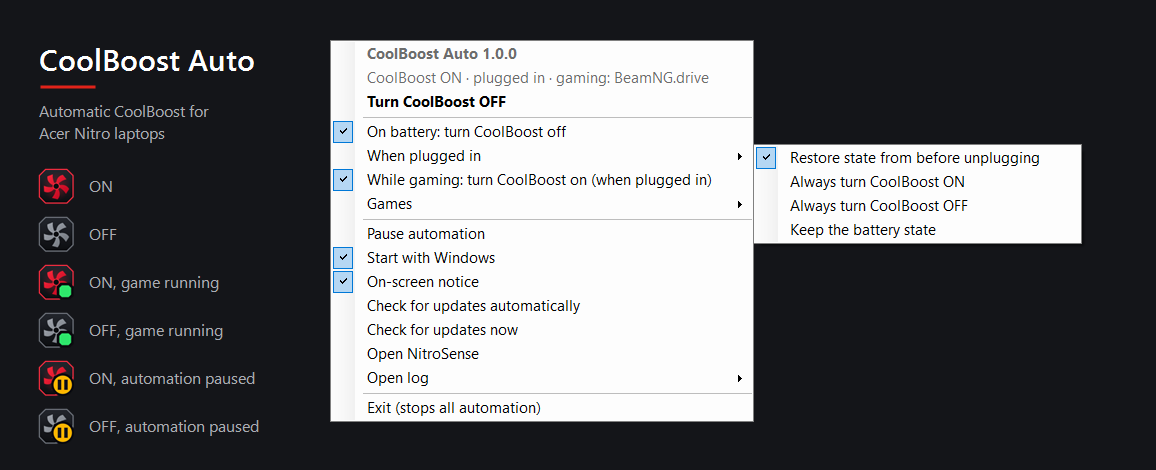
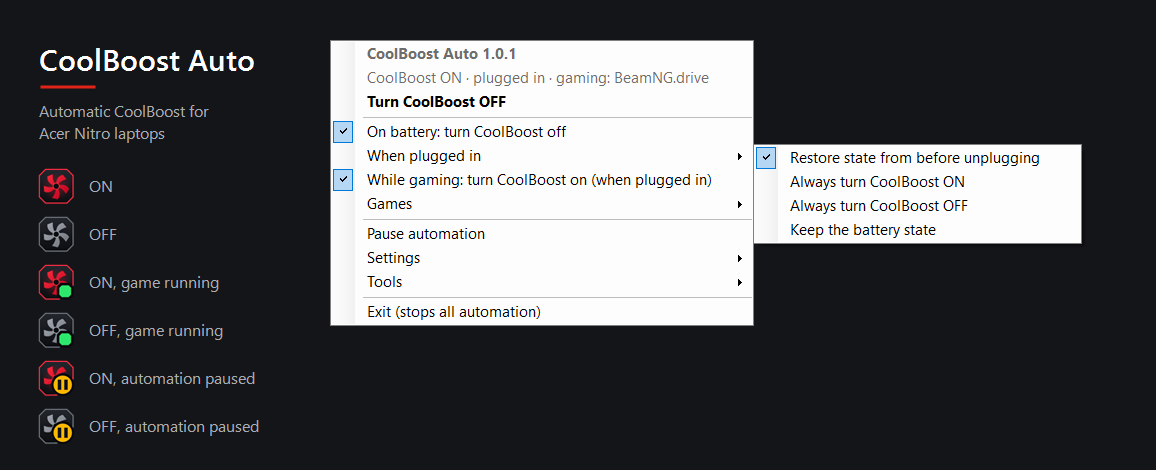
Tray menu: group the rarely used items into Settings and Tools submenus; docs and screenshot updated
Claude-Session: https://claude.ai/code/session_01VWvxtFW1m6xPJTzfAa1e5K

Changed region(s): [[0.2803, 0.5064, 0.654, 0.9234], [0.436, 0.0894, 0.4671, 0.1191]]

diff --git a/README.pt-BR.md b/README.pt-BR.md
@@ -9,7 +9,7 @@
 
 **[⬇ Baixar a versão mais recente](https://github.com/edgarmcarvalho/nitrosense-coolboost-auto/releases/latest)** · 🇺🇸 [Read in English](README.md)
 
-![CoolBoost Auto: estados do ícone da bandeja e menu](docs/screenshot.png?v=2)
+![CoolBoost Auto: estados do ícone da bandeja e menu](docs/screenshot.png?v=3)
 
 > Projeto sem vínculo com a Acer e não endossado por ela. *Acer, Nitro, NitroSense e CoolBoost são marcas registradas da Acer Inc.*
 
@@ -74,7 +74,7 @@ powershell -ExecutionPolicy Bypass -File .\install.ps1
 
 <img src="docs/notice.png" width="210" align="right" alt="Aviso: CoolBoost ON, gaming: BeamNG.drive">
 
-Sempre que o CoolBoost troca, um pequeno aviso aparece acima da barra de tarefas por uns 3 segundos e diz o motivo, em inglês (*unplugged*, *gaming: (o jogo)*, *game closed*…). Ele nunca rouba o foco; para desligar, use **On-screen notice** no menu.
+Sempre que o CoolBoost troca, um pequeno aviso aparece acima da barra de tarefas por uns 3 segundos e diz o motivo, em inglês (*unplugged*, *gaming: (o jogo)*, *game closed*…). Ele nunca rouba o foco; para desligar, use **Settings ▸ On-screen notice**.
 
 <details><summary><b>Tudo o que tem no menu</b> (o menu é em inglês)</summary>
 
@@ -84,9 +84,8 @@ Sempre que o CoolBoost troca, um pequeno aviso aparece acima da barra de tarefas
 - **While gaming: turn CoolBoost on (when plugged in)**: a regra dos jogos.
 - **Games** ▸ os jogos detectados agora, **Add a running app** (tratar um app aberto como jogo), **Ignore a game** (ignorar algo detectado por engano) e **Ignored apps** (clique em um para voltar a considerá-lo).
 - **Pause automation**: nada muda sozinho até você desmarcar. O clique no ícone continua funcionando.
-- **Start with Windows** (iniciar com o Windows) · **On-screen notice** (aviso na tela).
-- **Check for updates automatically** (desligado por padrão) · **Check for updates now**: pergunta ao GitHub o número da versão mais recente e avisa se houver uma nova. Nada é baixado nem instalado a menos que você clique na atualização; aí abre uma janela que executa o mesmo instalador em PowerShell mostrado acima, fica aberta e espera você apertar Enter.
-- **Open NitroSense** · **Open log**.
+- **Settings** (configurações) ▸ **Start with Windows** (iniciar com o Windows) · **On-screen notice** (aviso na tela) · **Check for updates automatically** (desligado por padrão) · **Check for updates now**: pergunta ao GitHub o número da versão mais recente e avisa se houver uma nova. Nada é baixado nem instalado a menos que você clique na atualização; aí abre uma janela que executa o mesmo instalador em PowerShell mostrado acima, fica aberta e espera você apertar Enter.
+- **Tools** (ferramentas) ▸ **Open NitroSense** · **Open log** (energia e troca manual, ou automação de jogos).
 - **Exit (stops all automation)**: fecha o ícone e para todas as regras até você abrir o CoolBoost Auto de novo pelo menu Iniciar.
 </details>
 

diff --git a/README.md b/README.md
@@ -9,7 +9,7 @@
 
 **[⬇ Download the latest version](https://github.com/edgarmcarvalho/nitrosense-coolboost-auto/releases/latest)** · 🇧🇷 [Leia em português](README.pt-BR.md)
 
-![CoolBoost Auto: tray icon states and menu](docs/screenshot.png?v=2)
+![CoolBoost Auto: tray icon states and menu](docs/screenshot.png?v=3)
 
 > Not affiliated with or endorsed by Acer. *Acer, Nitro, NitroSense and CoolBoost are trademarks of Acer Inc.*
 
@@ -74,7 +74,7 @@ powershell -ExecutionPolicy Bypass -File .\install.ps1
 
 <img src="docs/notice.png" width="210" align="right" alt="Notice reading: CoolBoost ON, gaming: BeamNG.drive">
 
-Whenever CoolBoost switches, a small notice appears above the taskbar for about 3 seconds and says why (*unplugged*, *gaming: (the game)*, *game closed*…). It never takes focus; turn it off with **On-screen notice** in the menu.
+Whenever CoolBoost switches, a small notice appears above the taskbar for about 3 seconds and says why (*unplugged*, *gaming: (the game)*, *game closed*…). It never takes focus; turn it off in **Settings ▸ On-screen notice**.
 
 <details><summary><b>Everything in the menu</b></summary>
 
@@ -84,9 +84,8 @@ Whenever CoolBoost switches, a small notice appears above the taskbar for about 
 - **While gaming: turn CoolBoost on (when plugged in)**: the game rule.
 - **Games** ▸ the games detected now, **Add a running app** (treat an open app as a game), **Ignore a game**, and **Ignored apps** (click one to stop ignoring it).
 - **Pause automation**: nothing switches by itself until you untick it. Clicking the icon still works.
-- **Start with Windows** · **On-screen notice**.
-- **Check for updates automatically** (off by default) · **Check for updates now**: asks GitHub for the latest version number and tells you if there's a newer one. Nothing is downloaded or installed unless you click the update; it then opens a window that runs the same PowerShell installer shown above, stays open, and waits for you to press Enter.
-- **Open NitroSense** · **Open log**.
+- **Settings** ▸ **Start with Windows** · **On-screen notice** · **Check for updates automatically** (off by default) · **Check for updates now**: asks GitHub for the latest version number and tells you if there's a newer one. Nothing is downloaded or installed unless you click the update; it then opens a window that runs the same PowerShell installer shown above, stays open, and waits for you to press Enter.
+- **Tools** ▸ **Open NitroSense** · **Open log** (power and manual switching, or gaming automation).
 - **Exit (stops all automation)**: closes the icon and stops every rule until you start CoolBoost Auto again from the Start menu.
 </details>
 
